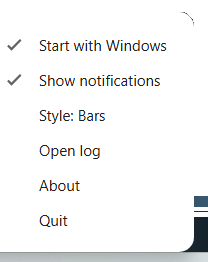
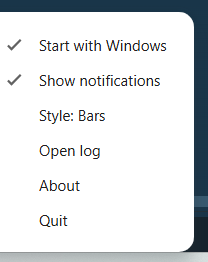
update tray menu screenshots

Changed region(s): [[0.0, 0.0, 1.0, 0.855]]

diff --git a/scripts/capture-tray-menu.js b/scripts/capture-tray-menu.js
@@ -22,14 +22,11 @@ const MENU_CROP = { x: 1585, y: 888, width: 208, height: 262 };
 
 const { app, Tray, nativeImage, nativeTheme } = require('electron');
 const { execFileSync } = require('child_process');
-const { createCanvas, loadImage } = require('@napi-rs/canvas');
-const fs = require('fs');
 const path = require('path');
 const { renderFractionIcon } = require('../src/icon/render');
 const { buildTrayMenu } = require('../src/main/menu');
 
 const OUT_DIR = path.join(__dirname, '..', 'docs');
-const BG_MATCH_THRESHOLD = 24;
 
 function capturePowerShellRegion(x, y, width, height, outPath) {
   const script = `
@@ -42,54 +39,6 @@ $g.Dispose()
 $bmp.Dispose()
 `;
   execFileSync('powershell.exe', ['-NoProfile', '-NonInteractive', '-Command', script]);
-}
-
-// The crop still has whatever was behind the menu (this machine's desktop)
-// filling its corners, since the real menu card has rounded corners. Flood-
-// fills from every border pixel and erases anything close in color to what
-// it started from, leaving the card (and its soft drop shadow, which fades
-// gradually rather than in one flat color and so mostly survives the color
-// threshold) on a transparent background instead of a solid rectangle.
-async function cutBackgroundTransparent(pngPath) {
-  const img = await loadImage(fs.readFileSync(pngPath));
-  const { width, height } = img;
-  const canvas = createCanvas(width, height);
-  const ctx = canvas.getContext('2d');
-  ctx.drawImage(img, 0, 0);
-  const imageData = ctx.getImageData(0, 0, width, height);
-  const { data } = imageData;
-
-  // The crop margin guarantees the very corner is background, not the card.
-  const [seedR, seedG, seedB] = [data[0], data[1], data[2]];
-
-  const visited = new Uint8Array(width * height);
-  const stack = [];
-  for (let x = 0; x < width; x++) {
-    stack.push(x, x + (height - 1) * width);
-  }
-  for (let y = 0; y < height; y++) {
-    stack.push(y * width, y * width + (width - 1));
-  }
-
-  while (stack.length) {
-    const idx = stack.pop();
-    if (visited[idx]) continue;
-    visited[idx] = 1;
-    const o = idx * 4;
-    const dist = Math.abs(data[o] - seedR) + Math.abs(data[o + 1] - seedG) + Math.abs(data[o + 2] - seedB);
-    if (dist > BG_MATCH_THRESHOLD) continue;
-
-    data[o + 3] = 0;
-    const px = idx % width;
-    const py = Math.floor(idx / width);
-    if (px > 0) stack.push(idx - 1);
-    if (px < width - 1) stack.push(idx + 1);
-    if (py > 0) stack.push(idx - width);
-    if (py < height - 1) stack.push(idx + width);
-  }
-
-  ctx.putImageData(imageData, 0, 0);
-  fs.writeFileSync(pngPath, canvas.toBuffer('image/png'));
 }
 
 app.whenReady().then(async () => {
@@ -132,7 +81,6 @@ app.whenReady().then(async () => {
     });
     await new Promise((r) => setTimeout(r, 500));
 
-    await cutBackgroundTransparent(outPath);
     console.log('wrote', outPath);
   }
 
